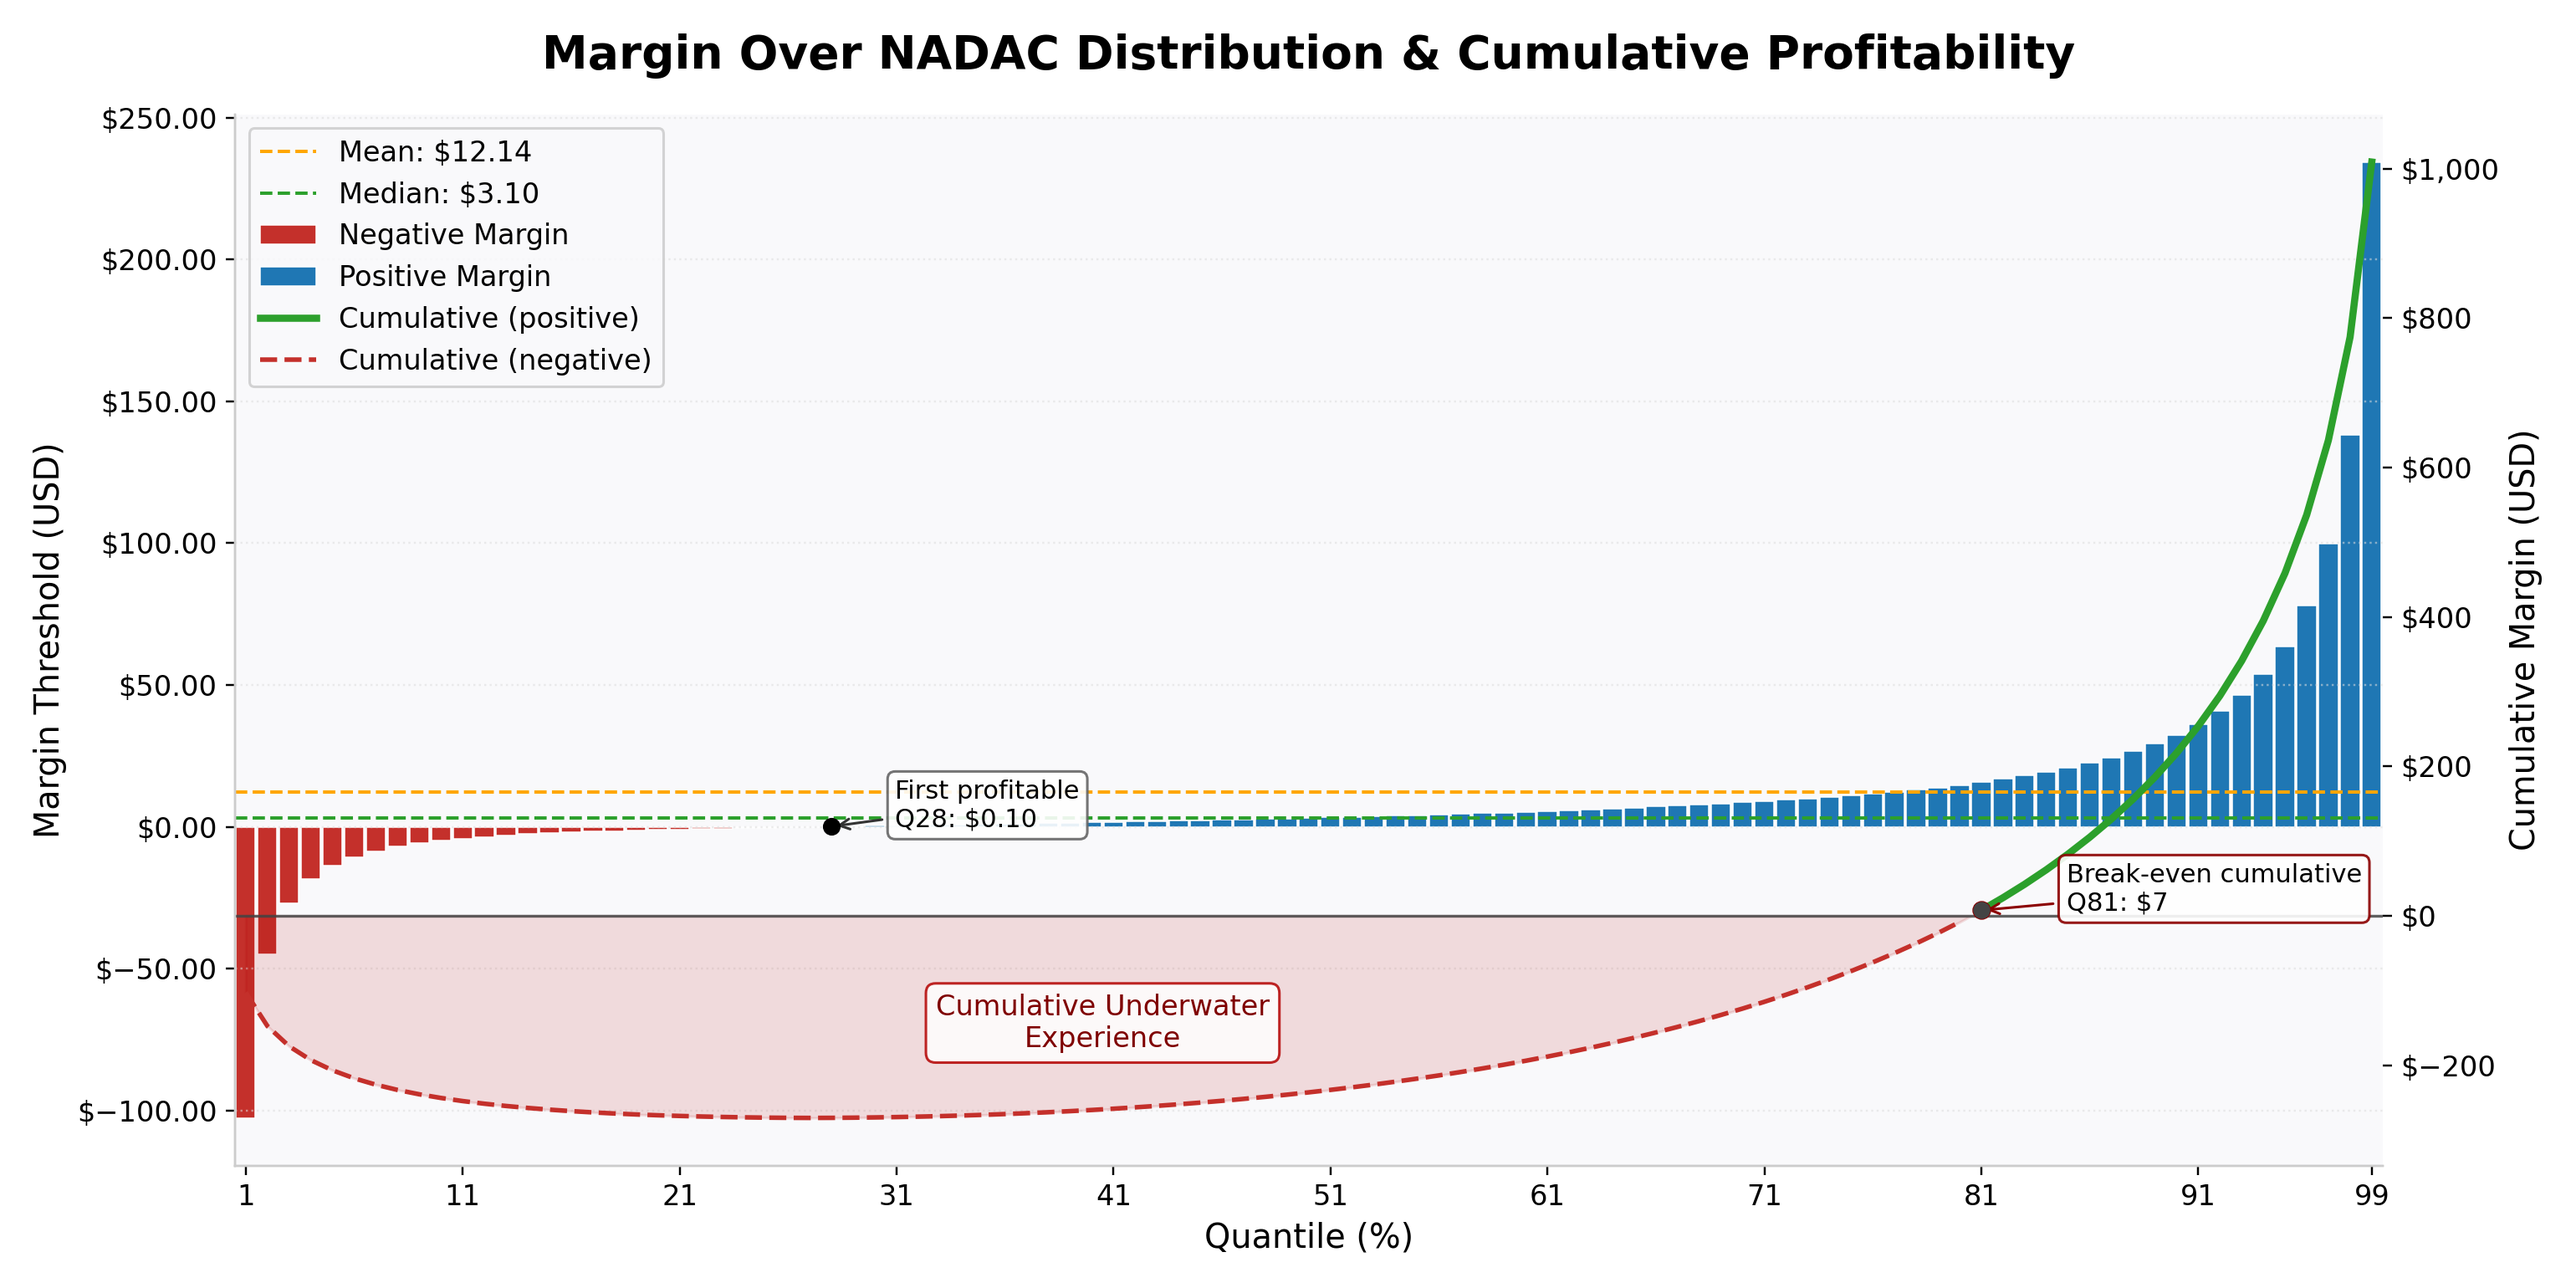
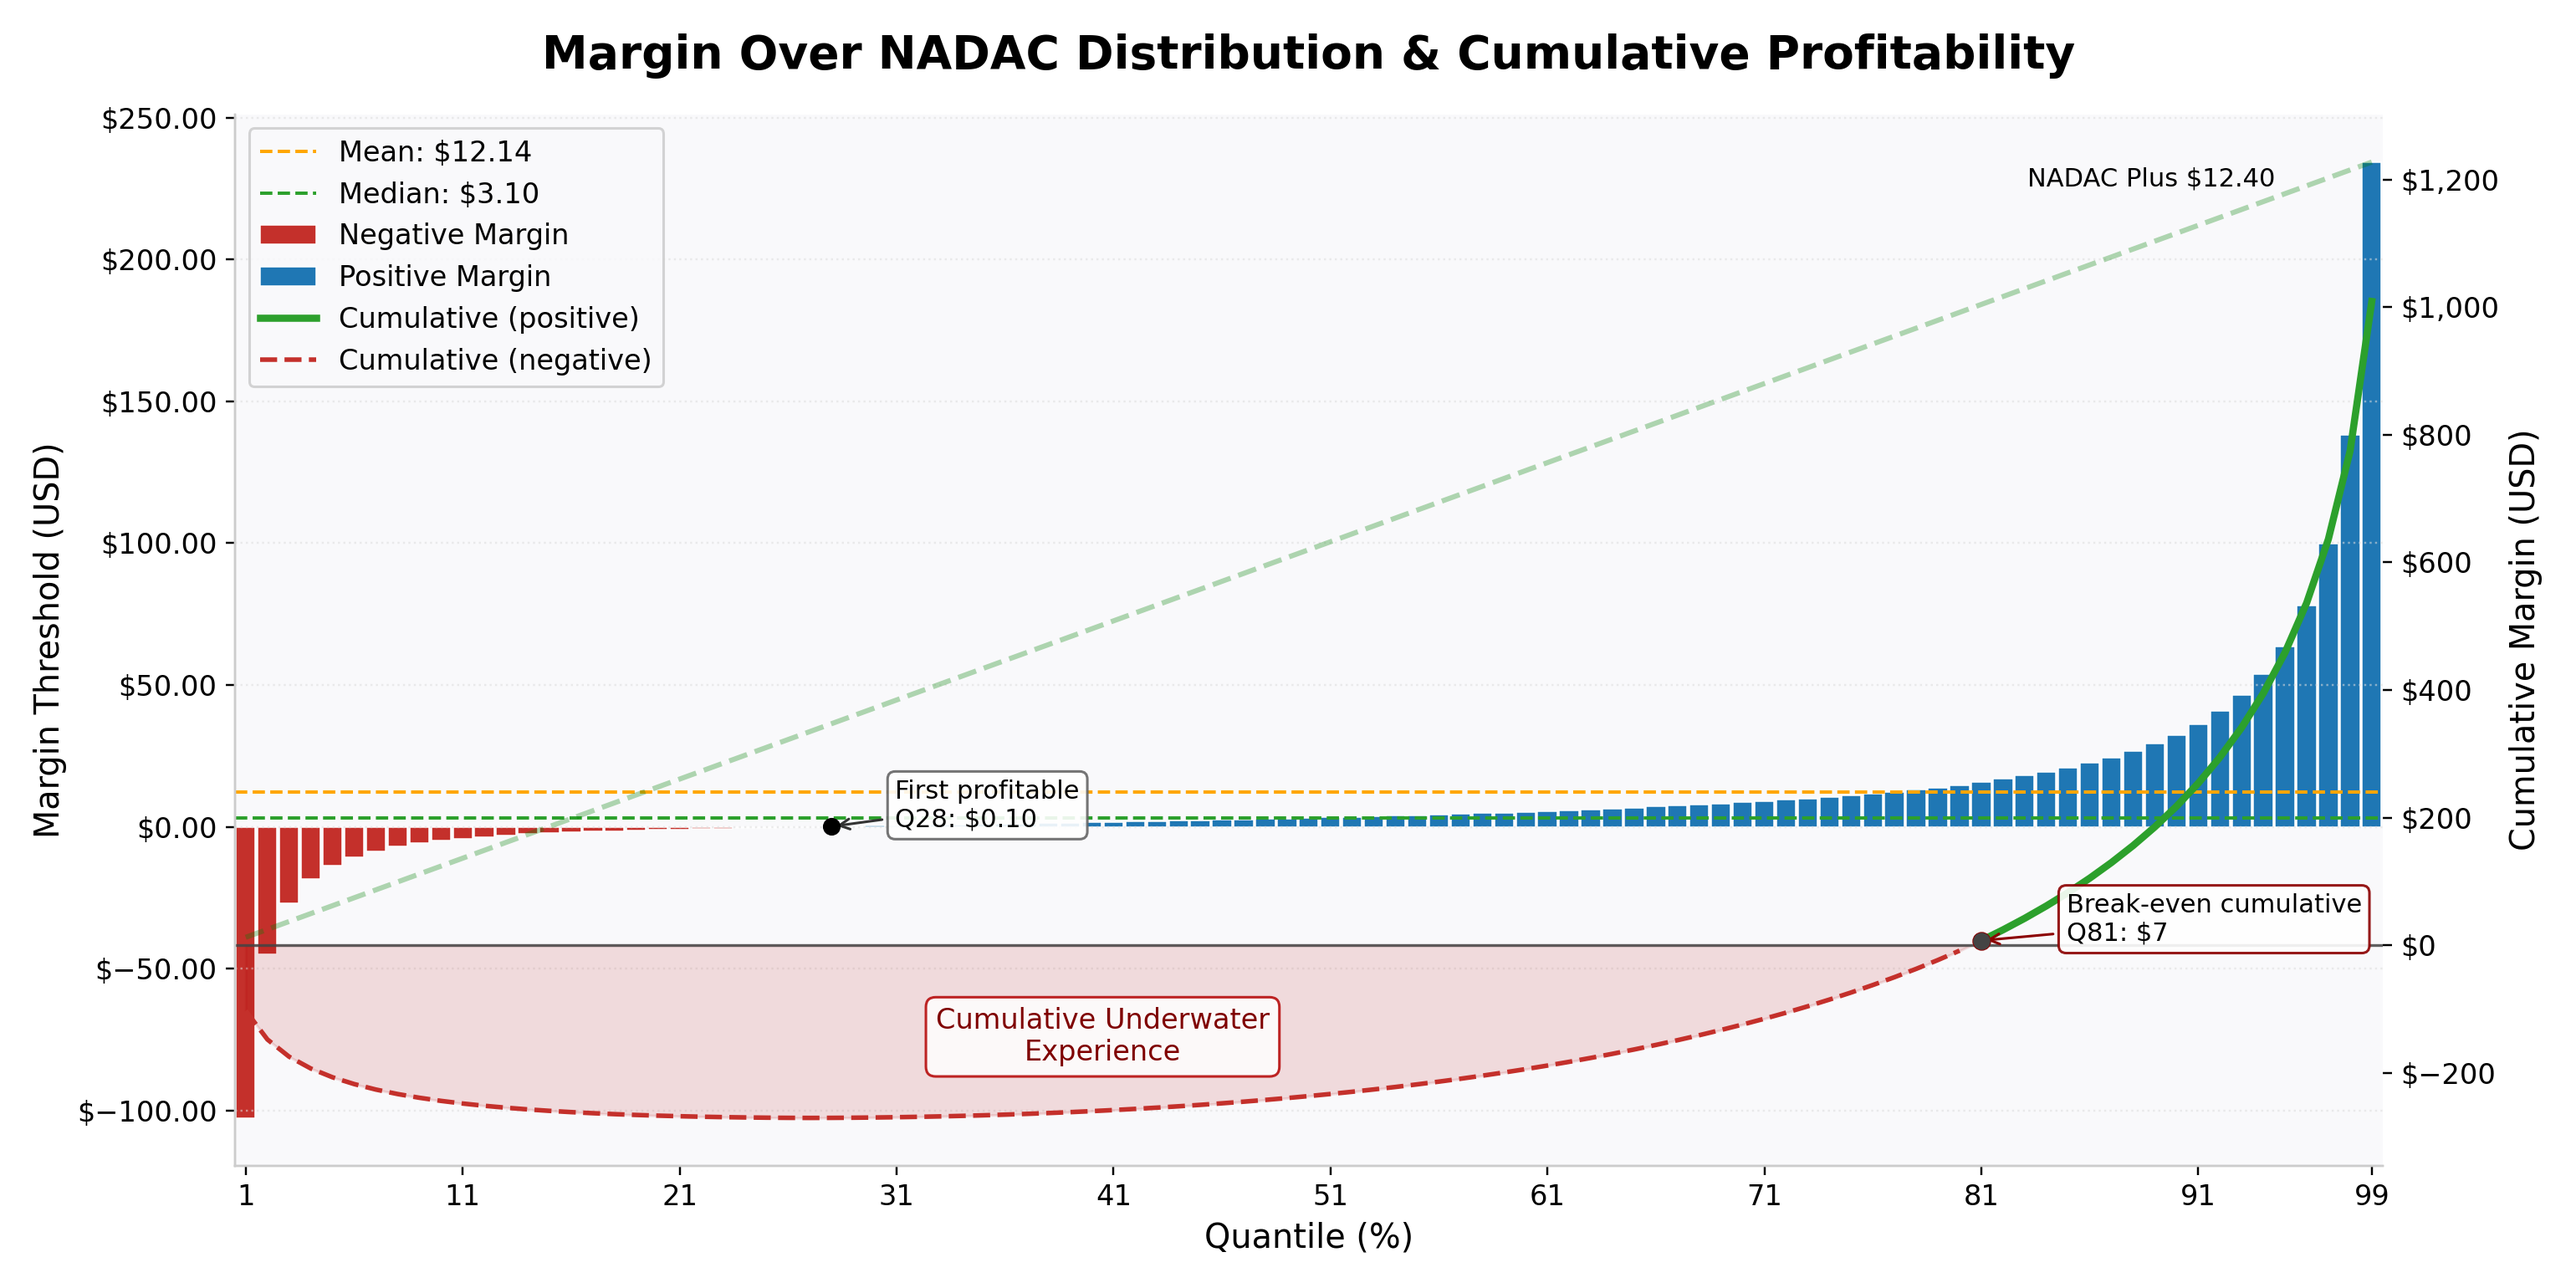
Enhance price distribution plotting with NADAC fee visualization and update related functions

diff --git a/figures/plotting.py b/figures/plotting.py
@@ -15,7 +15,7 @@ import matplotlib.pyplot as plt
 import matplotlib.ticker as mtick
 from analysis import starndard_margin_analysis
 
-def plot_price_distribution(min_quantile: int = 1, max_quantile: int = 99, output: Path | None = None) -> Path:
+def plot_price_distribution(min_quantile: int = 1, max_quantile: int = 99, output: Path | None = None, plot_nadac = False) -> Path:
     """Create a publication-quality chart of margin distribution & cumulative margin.
 
     Features:
@@ -207,6 +207,12 @@ def plot_price_distribution(min_quantile: int = 1, max_quantile: int = 99, outpu
     for spine in ['top', 'right']:
         ax1.spines[spine].set_visible(False)
         ax2.spines[spine].set_visible(False)
+
+    # do not add to legend but add a label that indicates NADAC Plus $12.40 to the line
+    if plot_nadac:
+        # set opacity to 0.5
+        ax2.plot(df['quantile'], df['cumulative_nadac_fee'], color='green', linestyle='--', linewidth=2, label='Cumulative NADAC Fee', alpha=0.3)
+        ax2.text(0.95, 0.95, 'NADAC Plus $12.40', transform=ax2.transAxes, fontsize=10, verticalalignment='top', horizontalalignment='right')
 
     fig.tight_layout()
     output.parent.mkdir(exist_ok=True, parents=True)

diff --git a/figures/plotting_prep.py b/figures/plotting_prep.py
@@ -1,8 +1,15 @@
 
 from analysis import get_all_margin_quantiles
 import polars as pl
+from polars import col as c
 
-def prepare_quantile_distribution(min_quantile: int = 1, max_quantile: int = 99) -> pl.DataFrame:
+def nadac_pricing(fee) -> pl.Expr:
+    return pl.lit(fee).alias('nadac_fee')
+
+def add_nadac_cum_sum(data, fee):
+    return data.with_columns(nadac_pricing(fee)).with_columns(c.nadac_fee.cum_sum().round(2).alias('cumulative_nadac_fee')).drop('nadac_fee')
+
+def prepare_quantile_distribution(min_quantile: int = 1, max_quantile: int = 99, nadac_fee: float = 12.40) -> pl.DataFrame:
     """Collect quantile thresholds with cumulative margin for plotting.
 
     Returns a DataFrame with columns:
@@ -16,4 +23,5 @@ def prepare_quantile_distribution(min_quantile: int = 1, max_quantile: int = 99)
         qlf.rename({first_col: 'margin_threshold'})
            .collect(engine='streaming')
            .sort('quantile')
+           .pipe(add_nadac_cum_sum, nadac_fee)
     )

diff --git a/main.py b/main.py
@@ -2,5 +2,6 @@ from figures.plotting import plot_price_distribution, plot_standardized_margin_g
 
 
 if __name__ == "__main__":
-    #plot_price_distribution()
+    plot_price_distribution(plot_nadac=True)
+    plot_standardized_margin_grouped()
     box_margin_plot()
